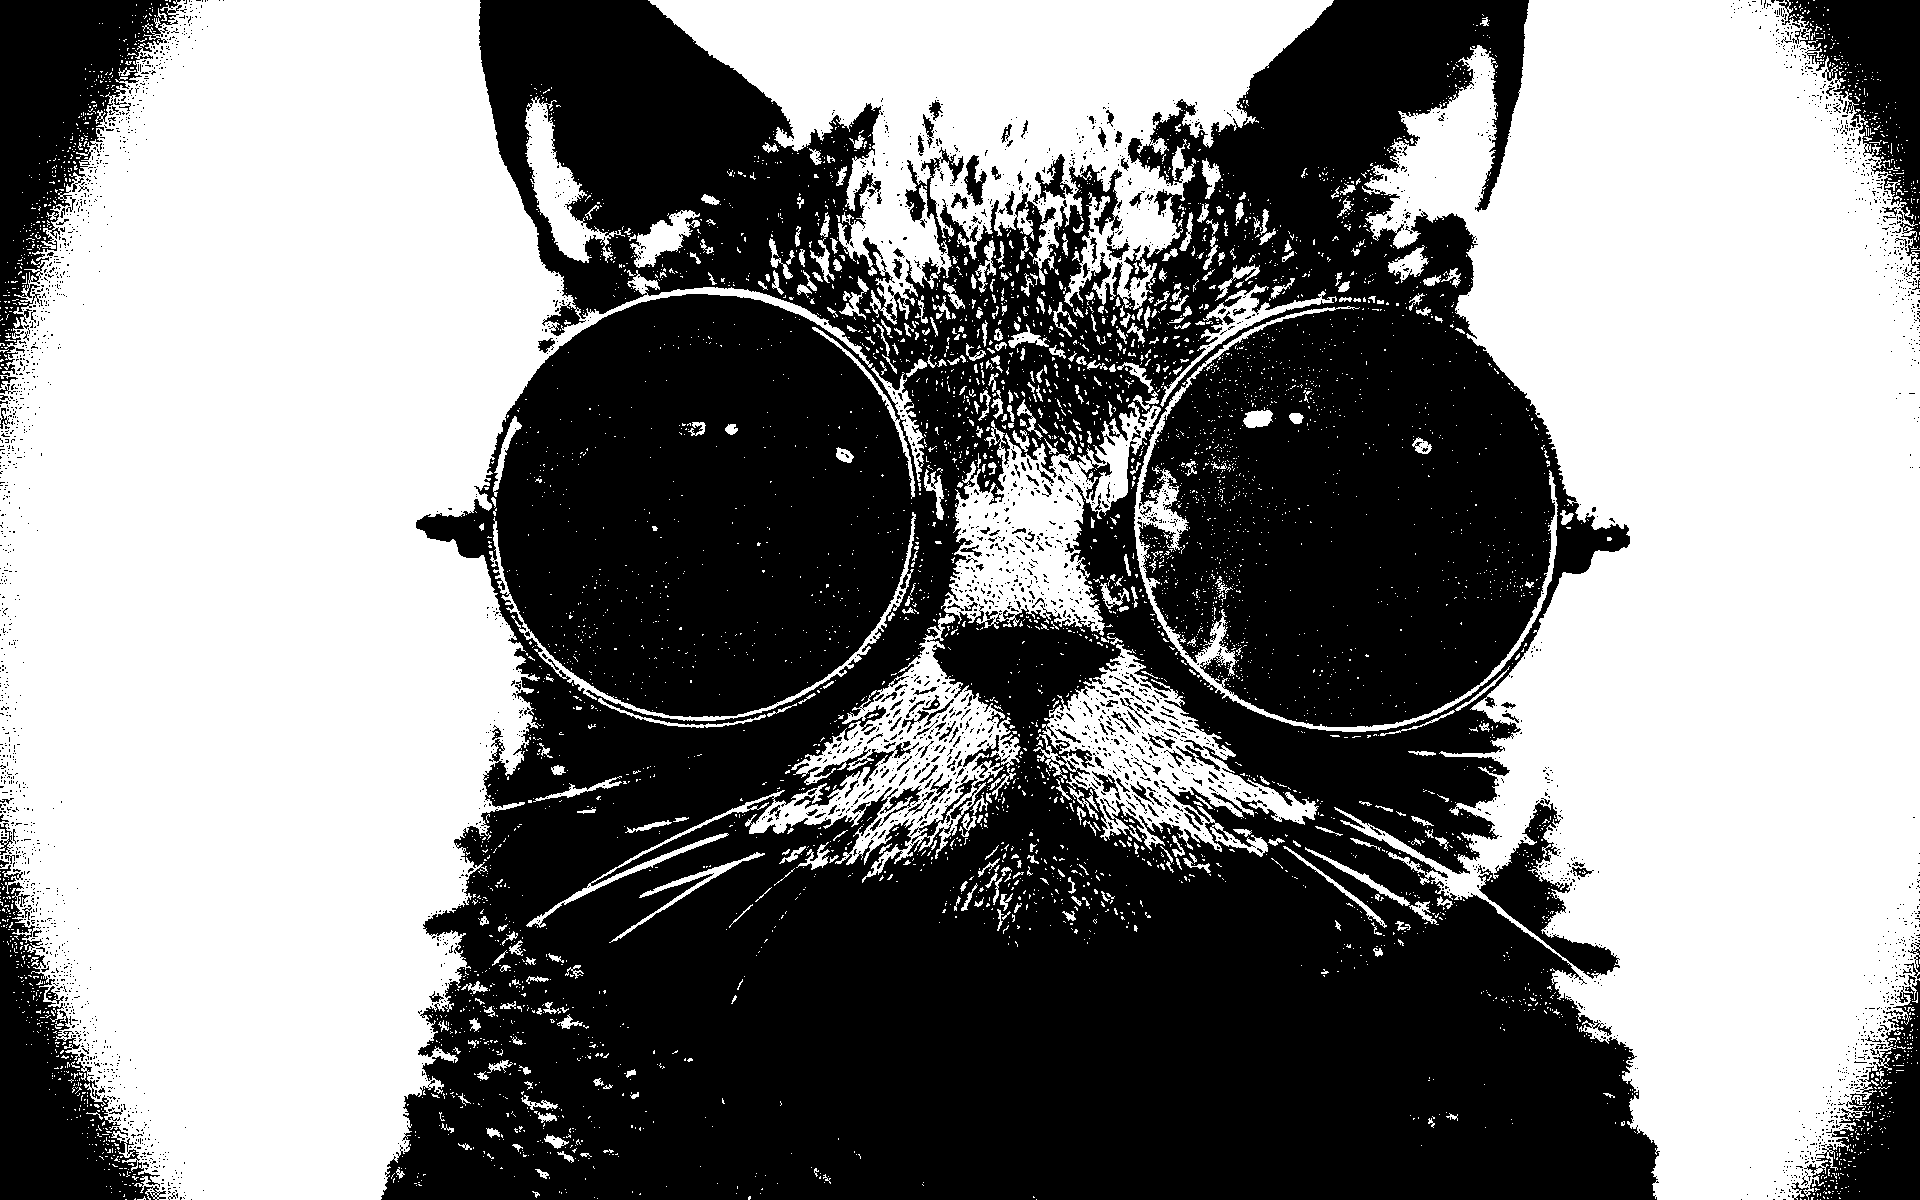
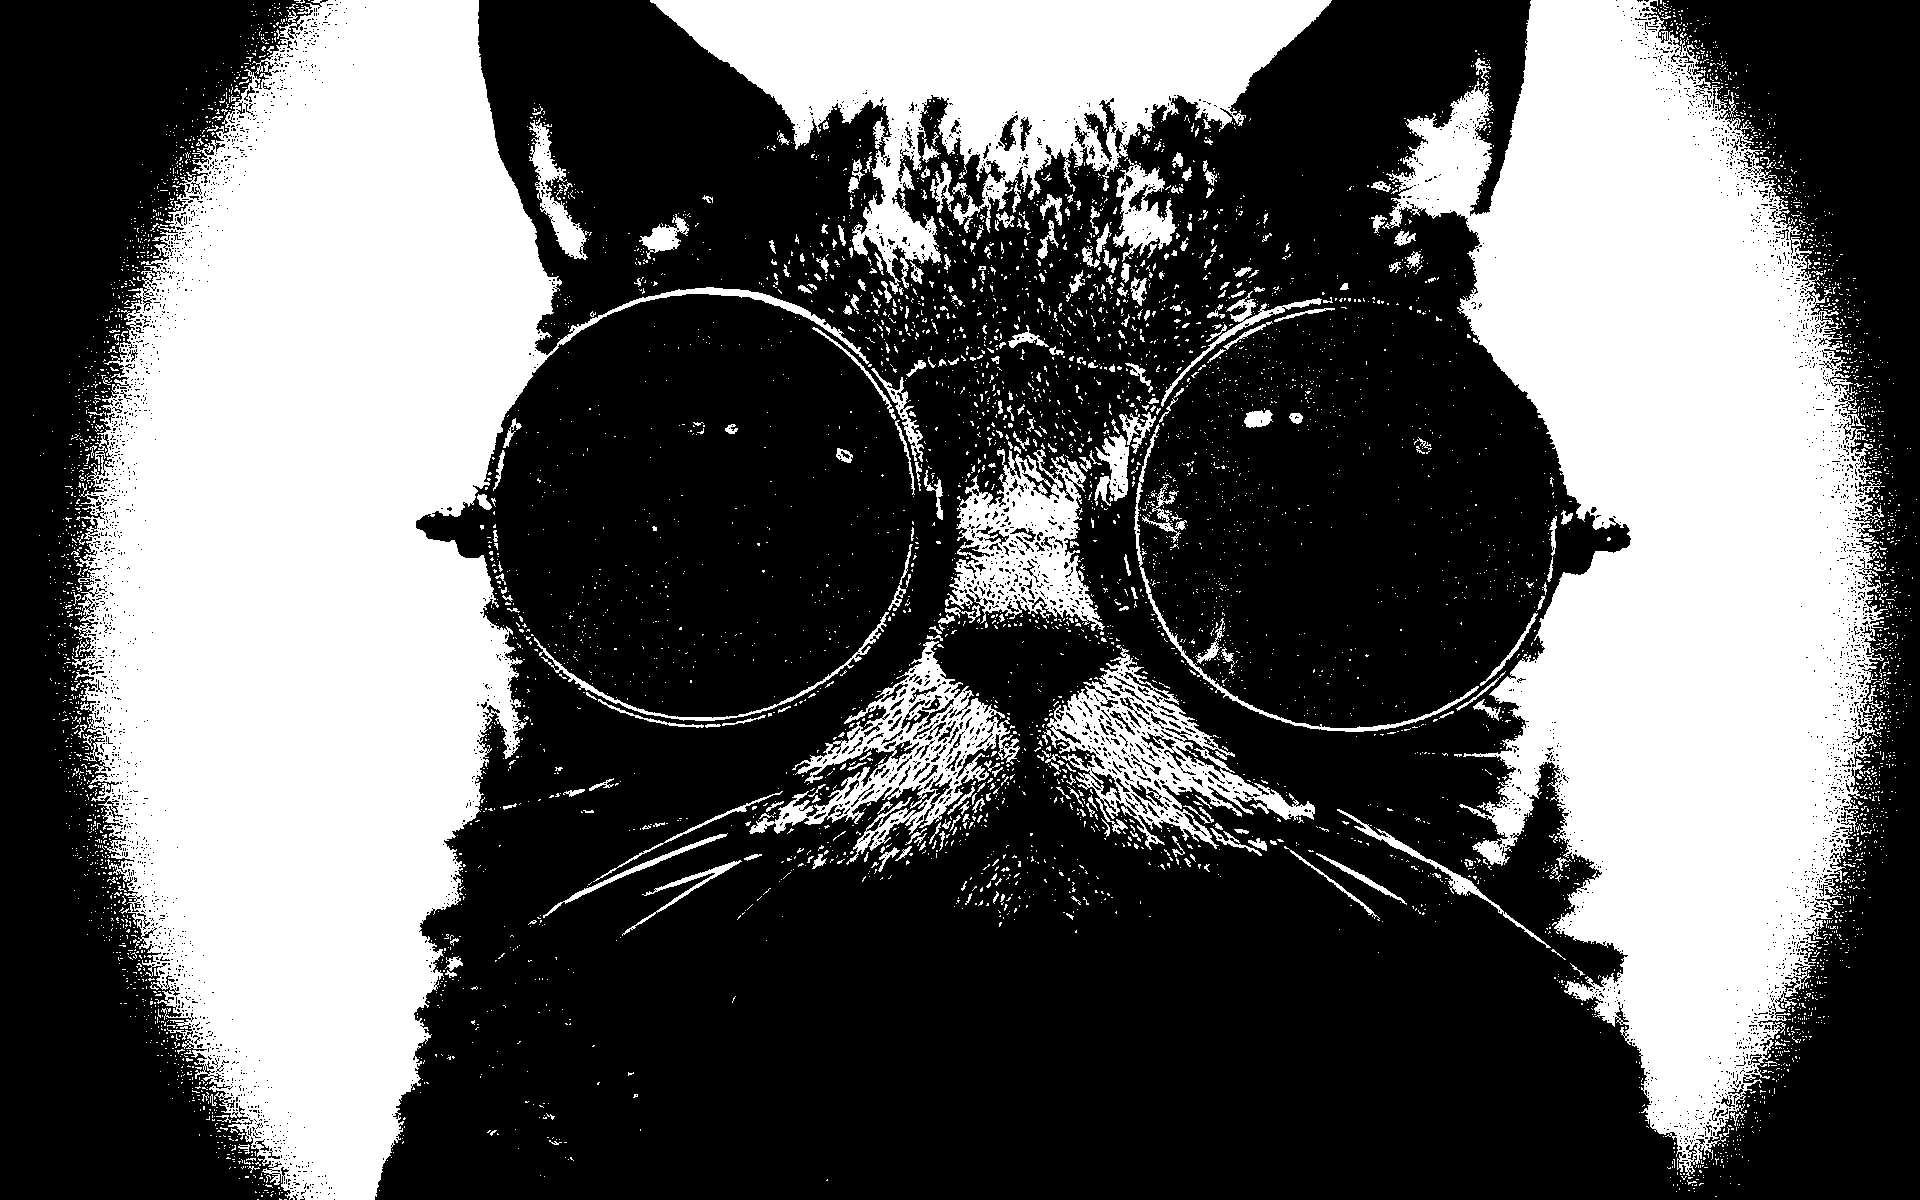
Cleaning up code by adding pixel obj

diff --git a/pixelSorter.java b/pixelSorter.java
@@ -8,8 +8,6 @@
  */
 import java.awt.image.BufferedImage;
 import java.awt.image.WritableRaster;
-import java.util.Collections;
-import java.util.Vector;
 import java.util.Arrays;
 import java.io.File;
 import java.io.IOException;
@@ -18,23 +16,35 @@ import javax.imageio.ImageIO;
 
 public class pixelSorter {
 	int BLACK = -16777216;
+	int threshhold;
+	String filename;
+	BufferedImage imgBnW = imageToBnW(filename, threshhold);
+
+	public pixelSorter(String File){
+		filename = File;
+	}
 	public static void main(String args[])
 		throws IOException
 	{	
-		String fileName = "coolpic.jpg";
-		// String filePath = "/home/nokken/templ/JavaLearning/PixelSorting/images/" + fileName;
-		pixelSorter l = new pixelSorter();
+		String fileName = "image.jpg";
+		pixelSorter l = new pixelSorter("image.jpg");
 		// l.imageToBnW(Filename, 25);
 		// l.imgToColum(fileName, l, 70);
 		// l.imgToRow(fileName, l, 70);
-	  l.imgToRowInterval(fileName, l, 40);
+	  l.imgToRowInterval(fileName, l, 50);
 
 	} // main() ends here
 
-	
+	/*
+	 * Input: Filename, pixelSorter object, int threshhold for BnW images
+	 * Output: A distorted image that has its pixels sorted in seperate intervals between black and white pixels
+	 * Description:
+	 * This function opens the image you want to sort and creates a black and white mask of that image to use as a guide.
+	 * It then sorts the pixels as seperate sub arrays at a given start and end position.
+	 */
 	public void imgToRowInterval(String Filename, pixelSorter l, int threshhold){
-		BufferedImage img = null, imgBW = null, masktwo = null;
-		File f = null, fBW = null, mask2 = null;
+		BufferedImage img = null, imgBW = null;
+		File f = null, fBW = null;
 
 		l.imageToBnW(Filename, threshhold);
 
@@ -47,13 +57,6 @@ public class pixelSorter {
 		}catch(IOException e){
 			System.out.println(e);
 		}
-		// pattered mask
-		try{
-			mask2 = new File("/home/nokken/templ/JavaLearning/PixelSorting/images/intervals.png");
-			masktwo = ImageIO.read(mask2);
-		}catch(IOException e){
-			System.out.println(e);
-		}
 		// Origenal image
 		try{
 			f = new File("/home/nokken/templ/JavaLearning/PixelSorting/images/" + Filename);
@@ -61,48 +64,42 @@ public class pixelSorter {
 		}catch(IOException e){
 			System.out.println(e);
 		}
-		// System.out.println(imgBW.getRGB(50,235) + " black val");
 
-		int[] imgRGB = new int[img.getWidth()];
-		// Vector<Integer> imgRGB = new Vector<Integer>();
-		int rowIdx;
-		int changedPixels = 0;
-
-		boolean startPosSet = false, endPosSet = false;
-		int startPos = 0, endPos;
 		int imgHeight = img.getHeight(), imgWidth = img.getWidth();
+		int[] imgRGB = new int[imgWidth];
+		int startPos = 0, endPos;
+		int rowIdx;
+		boolean startPosSet = false;
+
+		
 		for(int j = 0; j < imgHeight; j++){
-			// System.out.println(j + " for loop");
 			rowIdx = 0;
 			while(rowIdx < imgWidth ){
 				imgRGB[rowIdx] = (img.getRGB(rowIdx, j));
-				if(imgBW.getRGB(rowIdx,j) != BLACK && startPosSet == false ){//|| masktwo.getRGB(i,j) != 0xFF000000){
+				if(imgBW.getRGB(rowIdx,j) != BLACK && startPosSet == false ){
 					startPos = rowIdx;
 					startPosSet = true;
 				}
-				else if(imgBW.getRGB(rowIdx,j) == BLACK && startPosSet == true ){
-					endPos = rowIdx;
-					// System.out.println("start pos True startPos = " + startPos +" endpos =" +endPos);
+				else if(imgBW.getRGB(rowIdx,j) == BLACK && startPosSet == true && startPos != imgWidth - 1 ){
+					endPos = rowIdx - 1;
 
 					Arrays.sort(imgRGB, startPos, endPos);
 					startPosSet = false;
-
+					
 				}
+				// used for edge case when the end if the row is reached without setting an end position
 				else if(rowIdx == imgWidth -1){
 					endPos = rowIdx;
-					System.out.println("start pos True startPos = " + startPos +" endpos =" +endPos + " j= " + j);
-					System.out.println("rowIdx= " + rowIdx + " imgWidth= " + imgWidth);
-
 					Arrays.sort(imgRGB, startPos, endPos);
 					startPosSet = false;
 				}		
 				rowIdx++;
 			}
+			// set image to the sorted row
 			for(int i = 0; i < img.getWidth(); i++){
 				img.setRGB(i, j, imgRGB[i]);
 			}
 		}
-		System.out.println(changedPixels + " changed pixels");
 
 		// output image
 		try{
@@ -128,13 +125,7 @@ public class pixelSorter {
 		}catch(IOException e){
 			System.out.println(e);
 		}
-		// pattered mask
-		try{
-			mask2 = new File("/home/nokken/templ/JavaLearning/PixelSorting/images/intervals.png");
-			masktwo = ImageIO.read(mask2);
-		}catch(IOException e){
-			System.out.println(e);
-		}
+
 		// Origenal image
 		try{
 			f = new File("/home/nokken/templ/JavaLearning/PixelSorting/images/" + Filename);
@@ -148,13 +139,13 @@ public class pixelSorter {
 
 		for(int j = 0; j < img.getHeight(); j++){
 			for(int i = 0; i < img.getWidth(); i++){
-				if(imgBW.getRGB(i,j) != 0xFF000000 ){//|| masktwo.getRGB(i,j) != 0xFF000000){
+				if(imgBW.getRGB(i,j) != 0xFF000000 ){
 					imgRGB[i] = img.getRGB(i, j);
 				}
 			}
 			sortINT(imgRGB);
 			for(int i = 0; i < img.getWidth(); i ++){
-				if(imgBW.getRGB(i, j) != 0xFF000000 ){//|| masktwo.getRGB(i,j) != 0xFF000000){
+				if(imgBW.getRGB(i, j) != 0xFF000000 ){
 					img.setRGB(i, j, imgRGB[i]);
 				}
 			}
@@ -291,19 +282,20 @@ public static BufferedImage thresholdImage(BufferedImage image, int threshold) {
     }
     return result;
 }
-	public void imageToBnW(String Filename, int threshold){
+	public BufferedImage imageToBnW(String Filename, int threshold){
 		try {
 
             File input = new File("/home/nokken/templ/JavaLearning/PixelSorting/images/" + Filename);
             BufferedImage image = ImageIO.read(input);
 			System.out.println(input.getAbsolutePath());
             File output = new File("/home/nokken/templ/JavaLearning/PixelSorting/BW_images/BW_"+ Filename);
-			
             ImageIO.write(thresholdImage(image, threshold), "png", output);
+			return image;
 
         }  catch (IOException e) {
             e.printStackTrace();
         }
+		
 	}
 	public void bubbleSortImg(BufferedImage imgBW, BufferedImage img, int height, int width){
 		for(int i = 0; i < height; i++){
